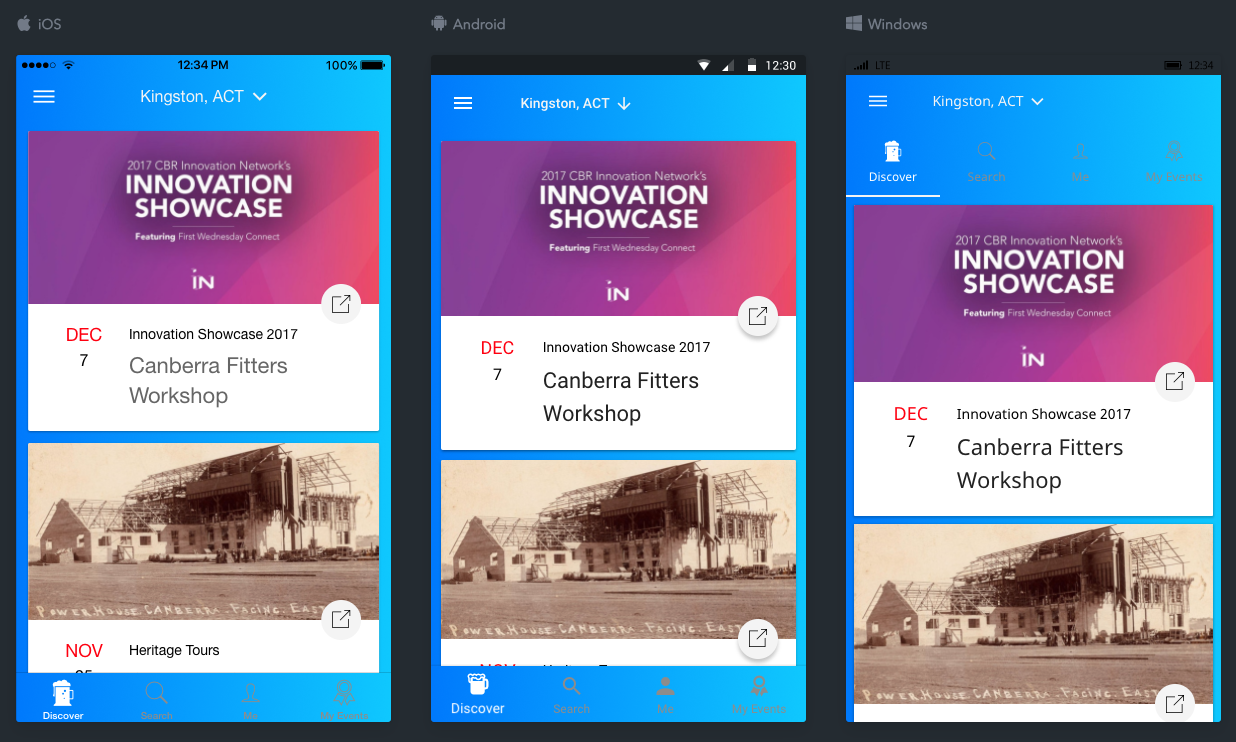
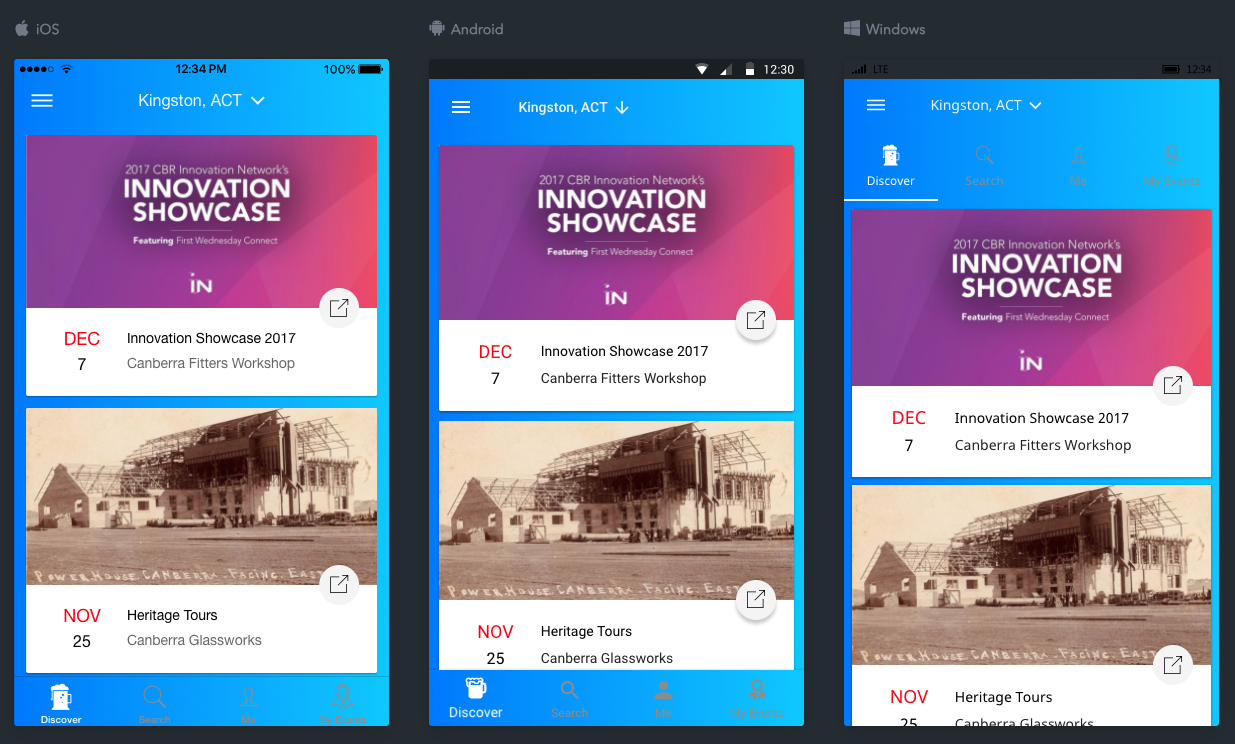
Updated the global styles in app.scss

diff --git a/src/pages/events/events.scss b/src/pages/events/events.scss
@@ -1,61 +1,48 @@
-page-events {
+/*
+  ios 	    ios Viewing on an iphone, ipad, or ipod will use the iOS styles.
+  android 	md 	Viewing on any android device will use the Material Design styles.
+  windows 	wp 	Viewing on any windows device inside cordova or electron uses the Windows styles.
+  core     	md 	Any platform that doesn’t fit any of the above platforms will use the Material Design styles.
+ */
 
-  .toolbar {
-    // background-color: white;
-    // background: white;
-    background-color: transparent;
-  }
+.ios, .md, .wp {
 
-  /*
-  .toolbar-title {
-    font-size: 2.0rem;
-    font-weight: bold;
-  }
+  page-events {
 
-  .button-ios {
-    font-size: 2.0rem;
-  }
-  */
+    .content {
+      color: black;
+    }
 
-  .content {
-    color: black;
-  }
+    .month {
+      font-size: 1.8rem;
+      color: red;
+    }
 
-  .month {
-    font-size: 1.8rem;
-    color: red;
-  }
+    .day {
+      font-size: 1.6rem;
+      color: black;
+    }
 
-  .day {
-    font-size: 1.6rem;
-    color: black;
-  }
+    .fab-container {
+      position: relative;
+    }
 
-  .fab-container {
-    position: relative;
-  }
+    .event-name {
+      padding-top: 8px;
+    }
 
-  .event-name {
-    padding-top: 8px;
-  }
+    .event-location {
+      padding-top: 6px;
+    }
 
-  .event-location {
-    padding-top: 6px;
   }
 
 }
 
 /*
 
-  ion-content {
-    div.scroll-content {
-      background-color: lightgray;
-    }
-  }
-
-  .bar-buttons {
-    // color: black;
-    color: white;
+  .card p {
+    font-size: 1.4rem;
   }
 
 */

diff --git a/src/app/app.scss b/src/app/app.scss
@@ -43,6 +43,10 @@
     text-transform: none;
   }
 
+  .card p {
+    font-size: 1.4rem;
+  }
+
   /*
   .label[floating] {
     color: white;

diff --git a/TODO.md b/TODO.md
@@ -186,3 +186,70 @@ $tabs-ios-tab-icon-color-active:    $tabs-ios-tab-color-active !default;
   }
 
 */
+
+
+/*
+
+page-events {
+
+  .toolbar {
+    // background-color: white;
+    // background: white;
+    background-color: transparent;
+  }
+
+  .content {
+    color: black;
+  }
+
+  .month {
+    font-size: 1.8rem;
+    color: red;
+  }
+
+  .day {
+    font-size: 1.6rem;
+    color: black;
+  }
+
+  .fab-container {
+    position: relative;
+  }
+
+  .event-name {
+    padding-top: 8px;
+  }
+
+  .event-location {
+    padding-top: 6px;
+  }
+
+}
+
+*/
+
+/*
+
+
+  .toolbar-title {
+    font-size: 2.0rem;
+    font-weight: bold;
+  }
+
+  .button-ios {
+    font-size: 2.0rem;
+  }
+
+  ion-content {
+    div.scroll-content {
+      background-color: lightgray;
+    }
+  }
+
+  .bar-buttons {
+    // color: black;
+    color: white;
+  }
+
+*/
+
